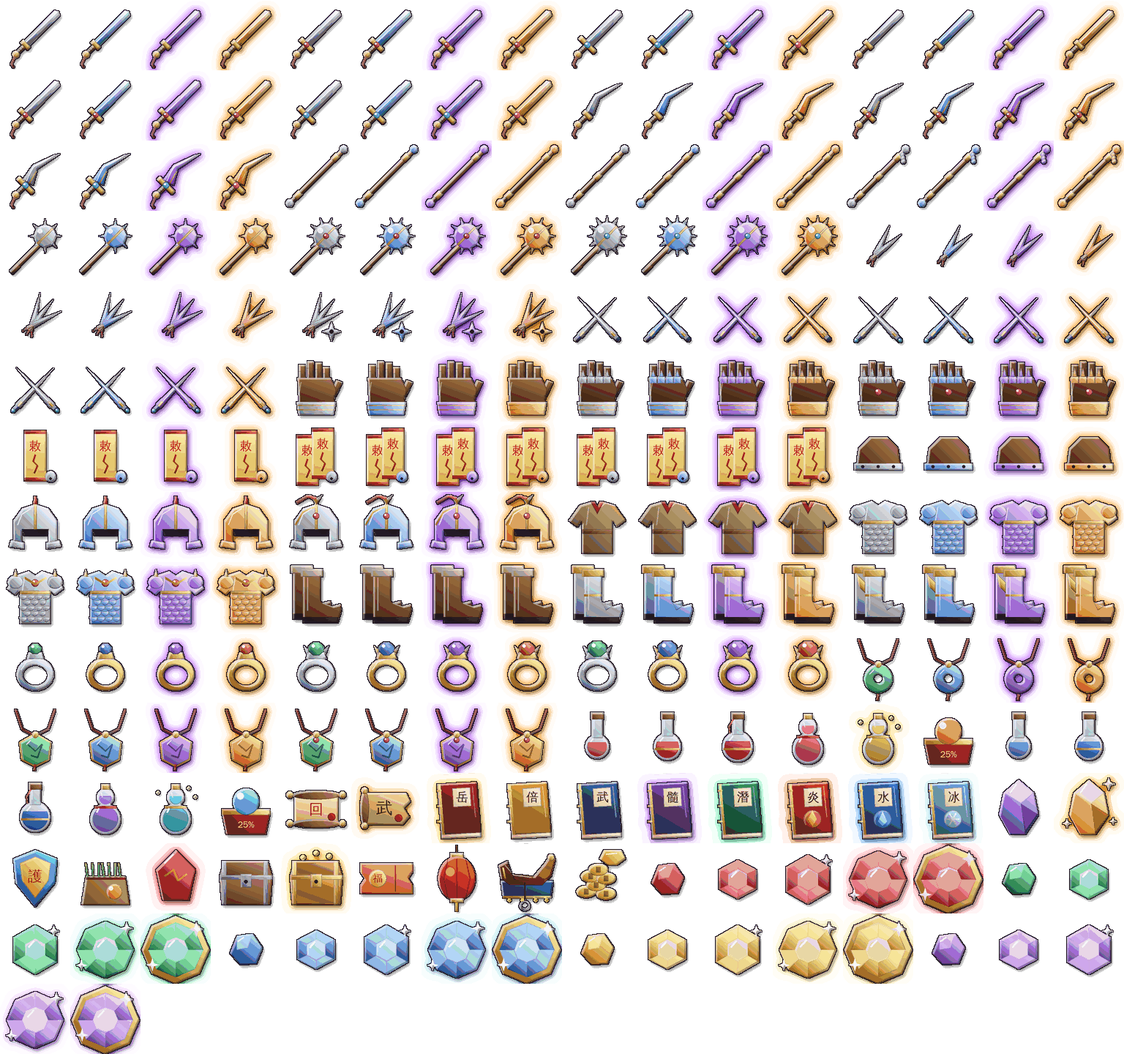
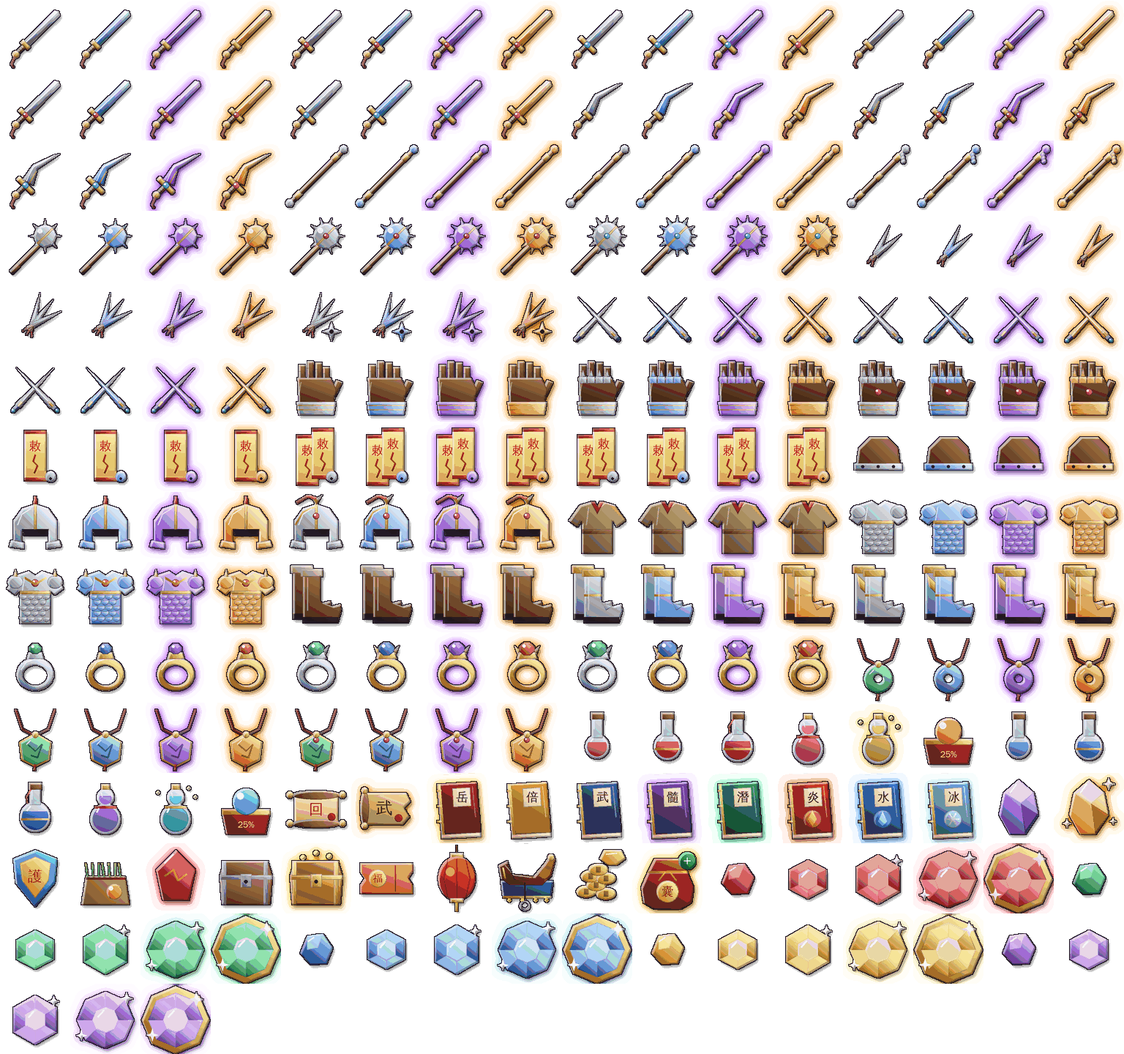
Fix reflect/lifesteal in PvP, cut announcement spam, inventory tools
- applyDamage returns the damage actually dealt. Reflect is computed on
  that and applied with kind 'reflect', which skips the PvP scaling and
  melee guard (it was being scaled twice: 40% reflect returned ~1%);
  clients show it as "Phản N". Lifesteal now uses the dealt damage
  instead of the raw pre-PvP number (it healed ~3x the damage dealt).
- Announcements: Features.brag caps player-achievement messages at 4 per
  minute; pickups/chests/wheel/escort chests only for Legendary
  equipment, enhance from +12, level-ups from 30. System messages only
  show in the "All" chat tab and are capped so they don't evict player
  chat.
- Inventory: per-character size (48 + invExtra up to 96) with a new
  Thẻ Mở Rộng Hành Trang item (+8, KNB shop, new bag icon); sortInv
  merges stacks and orders equipment by rarity/tier/plus; discardMany
  with a multi-select "Vứt nhanh" mode and a confirm warning for
  VIP/Legendary/high-plus items.

Claude-Session: https://claude.ai/code/session_01AqWtbjMjwaw5KPYKGcCy7Z

Changed region(s): [[0.0, 0.7812, 1.0, 1.0]]

diff --git a/server/game/world.js b/server/game/world.js
@@ -231,7 +231,7 @@ class World {
     return {
       name: c.name, cls: c.cls, level: c.level, exp: c.exp, expNext: U.expNext(c.level),
       gold: c.gold, knb: c.knb, hp: c.hp, mp: c.mp, stats: p.stats,
-      inv: c.inv, equip: c.equip, kills: c.kills, pvpKills: c.pvpKills, bossKills: c.bossKills,
+      inv: c.inv, invMax: U.invSize(c), equip: c.equip, kills: c.kills, pvpKills: c.pvpKills, bossKills: c.bossKills,
       tutorial: this.tutorialView(c), gemTut: c.gemTut | 0, guild: g ? { id: g.id, name: g.name, role: g.members[p.userId] } : null,
       expBuffUntil: c.expBuffUntil, buffs: p.buffs.map(b => ({ name: b.name, until: b.until, aura: b.aura, color: b.color })),
       quickHp: c.quickHp, quickMp: c.quickMp, admin: !!p.user.isAdmin, owner: isOwner(p.user) ? 1 : 0, dead: p.dead,
@@ -350,7 +350,7 @@ class World {
       this.toast(p, `⭐ Có ${attrTotalOf(c) - attrUsed(c.attr)} điểm tiềm năng chưa cộng (bảng Nhân vật – phím C)`, 'reward');
       const unlocked = CLASSES[c.cls].skills.filter(s => s.lv === c.level);
       for (const s of unlocked) this.toast(p, `Lĩnh ngộ võ công mới: ${s.name}`, 'reward');
-      if (c.level % 10 === 0) this.features.announce(`⚔ ${c.name} (${CLASSES[c.cls].name}) đã đạt cấp ${c.level}!`);
+      if (c.level % 10 === 0 && c.level >= 30) this.features.brag(`⚔ ${c.name} (${CLASSES[c.cls].name}) đã đạt cấp ${c.level}!`);
       this.progressTutorial(p, 'level');
       this.story.on(p, 'level');
     }
@@ -783,12 +783,12 @@ class World {
     const [em, ek] = elemMult(p.stats.el, isPlayer ? t.stats.del : t.tpl.el);
     dmg *= em;
     dmg = Math.max(1, Math.round(dmg));
-    this.applyDamage(t, dmg, p, crit ? 'crit' : 'hit', ek);
+    const dealt = this.applyDamage(t, dmg, p, crit ? 'crit' : 'hit', ek) || 0;   // sát thương thật (sau giảm PK, né, giảm sát thương)
     if (t.dead || p.dead) return;
     // hiệu ứng trang bị khi đánh trúng
     for (const k of PROC_KEYS) if (fx[k] && Math.random() * 100 < fx[k]) this.applyStatus(t, AFFIX[k].st[0], AFFIX[k].st[1], p);
     if (fx.lifesteal) {
-      const heal = Math.round(dmg * fx.lifesteal / 100 * this.healMul(p));
+      const heal = Math.round(dealt * fx.lifesteal / 100 * this.healMul(p));   // hút máu theo sát thương thật, không theo số gốc trước khi giảm PK
       if (heal > 0 && p.c.hp < p.stats.maxHp) { p.c.hp = Math.min(p.stats.maxHp, p.c.hp + heal); p.dirtyMe = true; if (heal >= 5) this.io.to('map:' + p.mapId).emit('dmg', { id: p.id, v: heal, k: 'heal' }); }
     }
     if (fx.double && Math.random() * 100 < fx.double) {
@@ -799,9 +799,10 @@ class World {
 
   applyDamage(t, dmg, src, kind, ek = 0) {
     if (src && src.c && t && !t.c && !t.cart) src.lastHitMon = Date.now();   // thú cưng biết chủ đang giao chiến
-    if (t.dead) return;
-    if (t.c && src && t.dodgeUntil > Date.now()) { this.io.to('map:' + t.mapId).emit('dmg', { id: t.id, v: 0, k: 'miss' }); return; }   // đang lướt né
-    if (t.c && src && src.c && t !== src) {   // người chơi đánh người chơi: giảm mạnh để trận đấu kéo dài 1-2 phút
+    if (t.dead) return 0;
+    if (t.c && src && t.dodgeUntil > Date.now()) { this.io.to('map:' + t.mapId).emit('dmg', { id: t.id, v: 0, k: 'miss' }); return 0; }   // đang lướt né
+    const reflected = kind === 'reflect';   // sát thương phản đòn đã tính xong ở phía người bị đánh: không giảm thêm lần nữa
+    if (t.c && src && src.c && t !== src && !reflected) {   // người chơi đánh người chơi: giảm mạnh để trận đấu kéo dài 1-2 phút
       const now = Date.now();
       // giao tranh kéo dài quá 60 giây: sát thương tăng dần (+35% mỗi 10 giây) để trận đấu không kéo dài mãi
       for (const e of [t, src]) if (now - (e.lastPvp || 0) > PVP_COMBAT) e.pvpSince = now;
@@ -815,23 +816,24 @@ class World {
       const powK = U.clamp(Math.pow(((src.stats.gs || 0) + 6) / ((t.stats.gs || 0) + 6), 2), 0.4, 3);
       dmg = Math.max(1, Math.round(dmg * PVP_DMG * lvK * powK * (1 + long / 10000 * 0.35)));
     }
-    if (t.c && src && src.c && isRanged(src) && !isRanged(t)) dmg = Math.max(1, Math.round(dmg * MELEE_GUARD));   // cận chiến: hộ thể trước đòn đánh xa
+    if (t.c && src && src.c && !reflected && isRanged(src) && !isRanged(t)) dmg = Math.max(1, Math.round(dmg * MELEE_GUARD));   // cận chiến: hộ thể trước đòn đánh xa
     // phòng thủ từ trang bị (chỉ với đòn đánh trực tiếp, không áp cho độc/bỏng)
     if (t.c && src && (kind === 'hit' || kind === 'crit' || kind === 'hurt')) {
       const fx = t.stats.fx || {};
-      if (fx.dodge && Math.random() * 100 < fx.dodge) { this.io.to('map:' + t.mapId).emit('dmg', { id: t.id, v: 0, k: 'miss' }); return; }
+      if (fx.dodge && Math.random() * 100 < fx.dodge) { this.io.to('map:' + t.mapId).emit('dmg', { id: t.id, v: 0, k: 'miss' }); return 0; }
       if (fx.dmgred) dmg = Math.max(1, Math.round(dmg * (1 - fx.dmgred / 100)));
-      if (fx.reflect && !t._reflecting && !src.dead && src.mapId === t.mapId) {
+      if (fx.reflect && !src.dead && src.mapId === t.mapId) {
+        // phản đòn: tính trên sát thương thật đã nhận (sau giảm PK, giảm sát thương), trả thẳng cho kẻ ra tay
         const back = Math.round(dmg * fx.reflect / 100);
-        if (back > 0) { src._reflecting = true; this.applyDamage(src, back, t, 'hit'); src._reflecting = false; }
+        if (back > 0) this.applyDamage(src, back, t, 'reflect');
       }
     }
-    if (t.dead) return;
+    if (t.dead) return 0;
     const dm = ek ? { id: t.id, v: dmg, k: kind, e: ek } : { id: t.id, v: dmg, k: kind };
     if (t.c && src && src.c && src !== t) dm.s = src.id;   // người chơi đánh người chơi: cho biết ai ra tay (tự động đánh trả)
     this.io.to('map:' + (t.mapId)).emit('dmg', dm);
     if (t.c) { // người chơi
-      if (this.duel.onDamage(t, dmg, src)) return;   // đòn kết liễu trong trận thách đấu: dừng ở 1 máu
+      if (this.duel.onDamage(t, dmg, src)) return dmg;   // đòn kết liễu trong trận thách đấu: dừng ở 1 máu
       t.c.hp -= dmg; t.lastCombat = Date.now(); t.dirtyMe = true;
       if (t.recall) this.cancelRecall(t, 'Bị tấn công');
       if (t.c.hp <= 0) this.killPlayer(t, src);
@@ -849,6 +851,7 @@ class World {
       }
       if (t.hp <= 0) this.killMonster(t, src);
     }
+    return dmg;
   }
 
   killPlayer(t, src) {
@@ -1102,7 +1105,8 @@ class World {
     const it = ITEMS[U.resolveItem(p.c, dr.itemId)];
     this.toast(p, `Nhặt được ${it.name}${dr.qty > 1 ? ' x' + dr.qty : ''}`, 'item:' + it.rarity);
     if (it.rarity === 'epic' || it.rarity === 'legendary') {
-      this.features.announce(`✨ ${p.c.name} nhặt được [${it.name}] (${RARITY[it.rarity].name}) tại ${m.def.name}!`);
+      // chỉ khoe trang bị Truyền Kỳ (đá, nguyên liệu VIP rơi nhiều làm trôi kênh Thế Giới)
+      if (it.type === 'equip' && it.rarity === 'legendary') this.features.brag(`✨ ${p.c.name} nhặt được [${it.name}] (${RARITY[it.rarity].name}) tại ${m.def.name}!`);
       this.db.log('drop', `${p.c.name} nhặt ${it.name}`, { user: p.userId });
     }
     p.dirtyMe = true;
@@ -1175,6 +1179,13 @@ class World {
       this.toast(p, c.pet ? `🐉 Đã triệu hồi ${it.name}` : `Đã thu hồi ${it.name}`, c.pet ? 'reward' : 'info');
       p.dirtyMe = true; return;
     }
+    if (e.invExpand) {
+      if ((c.invExtra | 0) >= U.INV_EXTRA_MAX) return this.toast(p, `Túi đồ đã mở rộng tối đa ${U.INV_SIZE + U.INV_EXTRA_MAX} ô`, 'error');
+      U.removeByUid(c, uid, 1);
+      c.invExtra = Math.min(U.INV_EXTRA_MAX, (c.invExtra | 0) + e.invExpand);
+      this.toast(p, `🎒 Túi đồ mở rộng lên ${U.invSize(c)} ô`, 'reward');
+      p.dirtyMe = true; this.db.markDirty(); return;
+    }
     if (e.expBuff) { c.expBuffUntil = Math.max(Date.now(), c.expBuffUntil || 0) + e.expBuff; this.toast(p, 'Nhân đôi kinh nghiệm 30 phút!', 'reward'); }
     if (e.wheel) { c.wheel.extra = (c.wheel.extra || 0) + 1; this.toast(p, 'Nhận thêm 1 lượt Vòng Quay', 'reward'); }
     if (e.resetSkill) {
@@ -1225,7 +1236,7 @@ class World {
         c.mounts[mt.id] = { lv: 1, exp: 0 };
         if (!c.mount) c.mount = mt.id;
         this.toast(p, `Thuần phục thành công ${mt.name}! Nhấn T hoặc nút 🐎 để cưỡi.`, 'reward');
-        if (mt.rarity === 'epic' || mt.rarity === 'legendary') this.features.announce(`🐉 ${c.name} đã thuần phục thú cưỡi [${mt.name}]!`);
+        if (mt.rarity === 'legendary') this.features.brag(`🐉 ${c.name} đã thuần phục thú cưỡi [${mt.name}]!`);
       }
       this.recalc(p); this.db.markDirty();
       return;
@@ -1281,7 +1292,7 @@ class World {
     const reward = { items: [[id, 1]], gold: U.randInt(100, 500) * (tier + 1) * kind };
     if (Math.random() < 0.3) reward.items.push(['stone', U.randInt(1, 3)]);
     this.giveReward(p, reward, kind === 2 ? 'Rương Thủ Lĩnh' : 'Rương Bí Ẩn');
-    if (rar === 'epic' || rar === 'legendary') this.features.announce(`🎁 ${p.c.name} mở rương nhận được [${ITEMS[id].name}]!`);
+    if (rar === 'legendary') this.features.brag(`🎁 ${p.c.name} mở rương nhận được [${ITEMS[id].name}]!`);
   }
 
   equip(p, uid) {
@@ -1310,6 +1321,33 @@ class World {
   }
   discard(p, uid) {
     if (U.removeByUid(p.c, uid, (p.c.inv.find(x => x.uid === uid) || {}).qty || 1)) p.dirtyMe = true;
+  }
+  // vứt nhiều món một lần (đồ đang mặc không nằm trong túi nên không bị vứt)
+  discardMany(p, uids) {
+    if (!Array.isArray(uids) || p.trade) return;
+    let n = 0;
+    for (const uid of new Set(uids.slice(0, 200))) {
+      const s = typeof uid === 'string' && p.c.inv.find(x => x.uid === uid);
+      if (s && U.removeByUid(p.c, uid, s.qty)) n++;
+    }
+    if (!n) return;
+    this.toast(p, `🗑 Đã vứt ${n} món`, 'info');
+    p.dirtyMe = true; this.db.markDirty();
+  }
+  // sắp xếp túi: trang bị (phẩm chất, bậc, cường hoá cao trước) → vật phẩm dùng → nguyên liệu; gộp các chồng cùng loại
+  sortInv(p) {
+    if (p.trade) return this.toast(p, 'Đang giao dịch, không thể sắp xếp túi', 'error');
+    const c = p.c, RK = { legendary: 0, epic: 1, rare: 2, common: 3 }, TK = { equip: 0, use: 1 };
+    const merged = [], byId = new Map();
+    for (const s of c.inv) {
+      const it = ITEMS[s.id]; if (!it) { merged.push(s); continue; }
+      if (U.isStack(s.id)) { const o = byId.get(s.id); if (o) { o.qty += s.qty; continue; } byId.set(s.id, s); }
+      merged.push(s);
+    }
+    const key = s => { const it = ITEMS[s.id] || {}; return [TK[it.type] ?? 2, RK[it.rarity] ?? 4, -(it.tier || 0), -(s.plus || 0), it.slot || '', s.id]; };
+    merged.sort((a, b) => { const x = key(a), y = key(b); for (let i = 0; i < x.length; i++) if (x[i] !== y[i]) return x[i] < y[i] ? -1 : 1; return 0; });
+    c.inv = merged;
+    p.dirtyMe = true; this.db.markDirty();
   }
 
   // ---------- NPC ----------
@@ -1509,12 +1547,12 @@ class World {
       target.plus = plus + 1;
       result = 'ok';
       this.toast(p, `Cường hóa thành công! ${it.name} +${target.plus}`, 'reward');
-      if (target.plus >= 9) this.features.announce(`🔨 ${c.name} cường hóa thành công [${it.name}] lên +${target.plus}!`);
+      if (target.plus >= 12) this.features.brag(`🔨 ${c.name} cường hóa thành công [${it.name}] lên +${target.plus}!`);
     } else if (risky && !useInsure) {
       target.plus = 1;
       result = 'drop';
       this.toast(p, `Cường hóa thất bại! Không có bảo hiểm, ${it.name} rớt về +1`, 'error');
-      if (plus >= 12) this.features.announce(`💥 ${c.name} cường hóa [${it.name}] +${plus + 1} thất bại, rớt về +1!`);
+      if (plus >= 12) this.features.brag(`💥 ${c.name} cường hóa [${it.name}] +${plus + 1} thất bại, rớt về +1!`);
     } else {
       if (useInsure) U.removeItemById(c, 'insure', 1);
       result = useInsure ? 'insured' : 'fail';

diff --git a/public/js/ui.js b/public/js/ui.js
@@ -534,8 +534,9 @@
   UI.chatMsg = function (m) {
     chatLog.push(m);
     if (chatLog.length > 200) chatLog.shift();
-    if (m.ch === 'sys' && /Boss|xuất hiện|Sự kiện|nhặt được|quay trúng|Đố Vui|Quản Trị|Top/.test(m.text)) UI.announce(m.text);
-    if (chatFilter === 'all' || chatFilter === m.ch || (m.ch === 'sys')) appendChat(m);
+    if (m.ch === 'sys' && chatLog.filter(x => x.ch === 'sys').length > 60) chatLog.splice(chatLog.findIndex(x => x.ch === 'sys'), 1);   // tin hệ thống không đẩy mất tin người chơi
+    if (m.ch === 'sys' && /Boss|xuất hiện|Sự kiện|Đố Vui|Quản Trị|Top/.test(m.text)) UI.announce(m.text);
+    if (chatFilter === 'all' || chatFilter === m.ch) appendChat(m);   // tin hệ thống chỉ hiện ở tab Tất cả, không làm trôi tab Thế giới
     if (m.ch === 'pm' && m.from !== (G.me && G.me.name)) UI.toast(`💌 ${m.from}: ${m.text}`, 'info');
   };
   function appendChat(m) {
@@ -549,7 +550,7 @@
     while (log.children.length > 150) log.firstChild.remove();
     if (atBottom || $('chat').classList.contains('collapsed')) log.scrollTop = log.scrollHeight;
   }
-  function renderChat() { $('chat-log').innerHTML = ''; chatLog.filter(m => chatFilter === 'all' || m.ch === chatFilter || m.ch === 'sys').forEach(appendChat); }
+  function renderChat() { $('chat-log').innerHTML = ''; chatLog.filter(m => chatFilter === 'all' || m.ch === chatFilter).forEach(appendChat); }
   UI.focusChat = function () { $('chat').classList.remove('collapsed'); $('chat-input').focus(); };
 
   UI.onEvents = function (d) {
@@ -640,7 +641,7 @@
       const cant = it.lv > me.level;
       html += `<div class="slot r-${it.rarity} ${cant ? 'cant' : ''} ${panelState.sel === s.uid ? 'sel' : ''} ${opts.mark && opts.mark.has(s.uid) ? 'marked' : ''}" data-uid="${s.uid}">${plusRing(s.plus | 0)}<img src="${iconUrl(s.id)}" class="ic" width="36" height="36">${s.qty > 1 ? `<span class="q">${s.qty}</span>` : ''}${s.plus ? `<span class="plus">+${s.plus}</span>` : ''}</div>`;
     }
-    for (let i = me.inv.length; i < 48 && !opts.filter; i++) html += '<div class="slot" style="opacity:.35"></div>';
+    for (let i = me.inv.length; i < (me.invMax || 48) && !opts.filter; i++) html += '<div class="slot" style="opacity:.35"></div>';
     html += '</div></div>';
     return html;
   }
@@ -651,13 +652,31 @@
     const s = me.inv.find(x => x.uid === sel);
     return s ? Object.assign({ equipped: false }, s) : null;
   }
+  // vứt nhanh: chạm chọn nhiều món rồi vứt một lần
+  const dropMark = new Set();
+  let dropMode = false;
   function renderInventory(body) {
     const me = G.me;
-    let html = `<div class="small muted" style="margin-bottom:6px">💰 ${fmt(me.gold)} lượng · 💎 ${fmt(me.knb)} Nguyên Bảo · Túi ${me.inv.length}/48 · Lực chiến <b style="color:#ffd76a">${fmt(me.stats.power)}</b></div>`;
-    html += invGrid(body);
-    html += itemActions();
+    for (const u of [...dropMark]) if (!me.inv.some(s => s.uid === u)) dropMark.delete(u);
+    let html = `<div class="small muted" style="margin-bottom:6px">💰 ${fmt(me.gold)} lượng · 💎 ${fmt(me.knb)} Nguyên Bảo · Túi ${me.inv.length}/${me.invMax || 48} · Lực chiến <b style="color:#ffd76a">${fmt(me.stats.power)}</b></div>`;
+    html += `<div class="inv-tools"><button class="btn small" id="inv-sort">🧹 Sắp xếp</button><button class="btn small ${dropMode ? 'red' : ''}" id="inv-drop">${dropMode ? '✕ Thoát vứt nhanh' : '🗑 Vứt nhanh'}</button></div>`;
+    if (dropMode) html += `<div class="qs-box"><div class="small muted">Chạm vào các món muốn vứt để đánh dấu ✔. Đồ đang mặc không bị vứt. <a href="#" id="dm-common">Chọn đồ Thường</a> · <a href="#" id="dm-none">Bỏ chọn</a></div>
+      <button class="btn red qs-go" id="dm-go" ${dropMark.size ? '' : 'disabled'}>🗑 Vứt ${dropMark.size} món</button></div>`;
+    html += invGrid(body, dropMode ? { mark: dropMark } : {});
+    if (!dropMode) html += itemActions();
     body.innerHTML = html;
     bindInv(body);
+    $('inv-sort').onclick = () => { emit('sortInv'); panelState.sel = null; G.sfx('click'); };
+    $('inv-drop').onclick = () => { dropMode = !dropMode; dropMark.clear(); panelState.sel = null; UI.refreshPanel(); };
+    if (!dropMode) return;
+    body.querySelectorAll('.inv-grid [data-uid]').forEach(el => el.onclick = () => { const u = el.dataset.uid; dropMark.has(u) ? dropMark.delete(u) : dropMark.add(u); G.sfx('click'); UI.refreshPanel(); });
+    $('dm-common').onclick = e => { e.preventDefault(); me.inv.forEach(s => { const it = G.data.items[s.id]; if (it.type === 'equip' && it.rarity === 'common' && !s.plus) dropMark.add(s.uid); }); UI.refreshPanel(); };
+    $('dm-none').onclick = e => { e.preventDefault(); dropMark.clear(); UI.refreshPanel(); };
+    $('dm-go').onclick = () => {
+      const list = me.inv.filter(s => dropMark.has(s.uid));
+      const rare = list.filter(s => { const it = G.data.items[s.id]; return it.rarity === 'epic' || it.rarity === 'legendary' || (s.plus || 0) >= 5; }).length;
+      G.modal(`Vứt bỏ ${list.length} món? Vật phẩm bị vứt sẽ mất hẳn.${rare ? `\n⚠ Có ${rare} món VIP / Truyền Kỳ / đã cường hóa cao!` : ''}`, [{ t: '🗑 Vứt', cls: 'primary', fn: () => { emit('discardMany', { uids: list.map(s => s.uid) }); dropMark.clear(); } }, { t: 'Hủy' }]);
+    };
   }
   function itemActions(ctx = {}) {
     const s = selectedItem();

diff --git a/public/admin/admin.js b/public/admin/admin.js
@@ -255,7 +255,7 @@
         <div class="small muted" style="margin-top:6px">Bản đồ: ${esc(c.map)} · Lực chiến: ${fmt(c.power)} · Quái: ${fmt(c.kills)} · PK: ${fmt(c.pvpKills)} · Boss: ${fmt(c.bossKills)} · Chết: ${fmt(c.deaths)} · Thời gian chơi: ${Math.round((c.playTime || 0) / 60)} phút</div></div>
       <div class="card"><h3>Tặng vật phẩm</h3><div class="row"><label style="flex:1">Vật phẩm${itemSearchHtml('e-item')}<select id="e-item">${itemOptions(items)}</select></label><label>SL<input id="e-qty" type="number" value="1" style="width:70px"></label><label>Cường hóa<input id="e-plus" type="number" value="0" min="0" max="15" style="width:70px"></label><button class="btn ok" id="e-give">Tặng</button></div></div>
       <div class="card"><h3>Trang bị</h3><div class="items">${Object.entries(c.equip).map(([s, e]) => e ? `<span class="item">${itemName(e.id)}${e.plus ? ' +' + e.plus : ''} <a data-rmslot="${s}" style="cursor:pointer" title="Xóa">✕</a></span>` : '').join('') || '<span class="muted">Không</span>'}</div>
-        <h3 style="margin-top:10px">Túi đồ (${c.inv.length}/48)</h3><div class="items">${c.inv.map(s => `<span class="item">${itemName(s.id)}${s.plus ? ' +' + s.plus : ''}${s.qty > 1 ? ' x' + s.qty : ''} <a data-rm="${s.uid}" style="cursor:pointer" title="Xóa">✕</a></span>`).join('') || '<span class="muted">Trống</span>'}</div></div>
+        <h3 style="margin-top:10px">Túi đồ (${c.inv.length}/${48 + Math.min(48, c.invExtra | 0)})</h3><div class="items">${c.inv.map(s => `<span class="item">${itemName(s.id)}${s.plus ? ' +' + s.plus : ''}${s.qty > 1 ? ' x' + s.qty : ''} <a data-rm="${s.uid}" style="cursor:pointer" title="Xóa">✕</a></span>`).join('') || '<span class="muted">Trống</span>'}</div></div>
       <div class="card"><h3>Dịch chuyển</h3><div class="row"><select id="e-map">${maps.map(m => `<option value="${m.id}">${esc(m.name)}</option>`).join('')}</select><button class="btn" id="e-tp">Dịch chuyển</button></div></div>` : ''}
       <div class="card"><h3>Quản lý tài khoản</h3><div class="row">
         ${u.username ? `<label>Mật khẩu mới cho "${esc(u.username)}"<input id="e-newpass" type="text" placeholder="tối thiểu 6 ký tự"></label><button class="btn" id="e-resetpass">Đặt lại mật khẩu</button>` : ''}

diff --git a/server/game/util.js b/server/game/util.js
@@ -10,7 +10,8 @@ const { gemBonus } = require('../data/gems');
 const plusMult = plus => 1 + Math.min(plus, 10) * 0.12 + Math.max(0, plus - 10) * 0.25;
 
 const MAX_LEVEL = 99;
-const INV_SIZE = 48;
+const INV_SIZE = 48, INV_EXTRA_MAX = 48;   // túi gốc 48 ô, Thẻ Mở Rộng Hành Trang thêm tối đa 48 ô
+const invSize = c => INV_SIZE + Math.max(0, Math.min(INV_EXTRA_MAX, c.invExtra | 0));
 
 // kinh nghiệm lên cấp = KN một con quái cùng cấp × số quái cần hạ. Số quái tăng mạnh sau cấp 30 vì cấp cao
 // quái đông, chiêu diện rộng hạ rất nhanh (đo mô phỏng: ~200 con/giờ ở cấp 15-45, 1.500-3.700 con/giờ từ cấp 60).
@@ -89,15 +90,15 @@ function addItem(c, id, qty = 1, plus = 0, extra = null) {
   if (isStack(id)) {
     const s = c.inv.find(x => x.id === id);
     if (s) { s.qty += qty; return true; }
-    if (c.inv.length >= INV_SIZE) return false;
+    if (c.inv.length >= invSize(c)) return false;
     c.inv.push({ uid: newUid(), id, qty });
     return true;
   }
-  if (c.inv.length + qty > INV_SIZE) return false;
+  if (c.inv.length + qty > invSize(c)) return false;
   for (let i = 0; i < qty; i++) c.inv.push(Object.assign({ uid: newUid(), id, qty: 1, plus }, extra || rollAffixes(it)));
   return true;
 }
-function freeSlots(c) { return INV_SIZE - c.inv.length; }
+function freeSlots(c) { return invSize(c) - c.inv.length; }
 function countItem(c, id) { return c.inv.filter(x => x.id === id).reduce((s, x) => s + x.qty, 0); }
 function removeItemById(c, id, qty) {
   if (countItem(c, id) < qty) return false;
@@ -223,6 +224,6 @@ function calcStats(c, buffs = [], guildLevel = 0, riding = false) {
 }
 
 module.exports = {
-  MAX_LEVEL, INV_SIZE, expNext, levelGapK, vnDate, vnDay, vnMinuteOfDay, rand, randInt, dist, clamp, newUid,
+  MAX_LEVEL, INV_SIZE, INV_EXTRA_MAX, invSize, expNext, levelGapK, vnDate, vnDay, vnMinuteOfDay, rand, randInt, dist, clamp, newUid,
   plusMult, newCharacter, addItem, resolveItem, migrateItems, freeSlots, countItem, removeItemById, removeByUid, calcStats, isStack
 };

diff --git a/server/data/changelog.js b/server/data/changelog.js
@@ -4,6 +4,16 @@ const CHANGELOG = [
   {
     date: '21/10/2026',
     items: [
+      'Sửa hiệu ứng trang bị khi PK: Phản Chấn trước đây gần như không phản được gì (bị giảm sát thương PK hai lần) – nay phản đúng % sát thương nhận vào và hiện chữ "Phản …" trên đầu kẻ ra đòn; Hút Máu trước đây hồi gấp nhiều lần sát thương gây ra – nay hồi đúng theo sát thương thật.',
+      'Lưu ý: Bạo Liệt (+% sát thương bạo kích) chỉ tăng sát thương của đòn bạo kích, tỉ lệ ra bạo kích vẫn theo chỉ số Chí mạng.',
+      'Bớt thông báo làm trôi kênh chat: chỉ khoe trang bị Truyền Kỳ (không còn báo nhặt đá, nguyên liệu, đồ VIP), cường hoá từ +12, tối đa 4 tin khoe mỗi phút. Tin hệ thống chỉ hiện ở tab Tất cả – tab Thế giới chỉ còn người chơi nói chuyện.',
+      'Túi đồ: nút 🧹 Sắp xếp (gộp chồng, trang bị tốt lên đầu) và 🗑 Vứt nhanh (chạm chọn nhiều món, vứt một lần).',
+      'Vật phẩm mới: Thẻ Mở Rộng Hành Trang (+8 ô túi, tối đa 96 ô) – bán ở Kỳ Trân Các 50 💎.'
+    ]
+  },
+  {
+    date: '21/10/2026',
+    items: [
       'Tự động nay hỗ trợ PK (tiện cho phái cận chiến): chọn một người chơi làm mục tiêu rồi bật Tự động – nhân vật tự đuổi theo và ra chiêu; khi tỷ võ luôn tự đánh đối thủ (kể cả trên Lôi Đài); mặc định tự đánh trả người chơi vừa tấn công mình. Tuỳ chọn thêm trong bảng Tự động: tự tấn công người chơi thù địch ở gần. Không bao giờ đánh người không thể tấn công (cùng bang, bản đồ an toàn, chế độ PK không cho phép).'
     ]
   },

diff --git a/server/data/items.js b/server/data/items.js
@@ -113,6 +113,7 @@ const CONSUMABLES = [
     effect: { vmCombine: 1 }, price: 20000 * (i + 1), icon: 'vm_scroll' })),
   { id: 'vm_dithu', name: 'Võ Mục Di Thư', rarity: 'legendary', desc: 'Binh thư tuyệt thế của Nhạc Vũ Mục. Nghiền ngẫm (Sử dụng) để vĩnh viễn tăng 3% công, thủ và sinh lực. Tối đa 5 lần.', effect: { vmStudy: 1 }, price: 500000, lv: 50, icon: 'vm_book' },
   { id: 'wheel_ticket', name: 'Vé Vòng Quay', desc: 'Thêm 1 lượt quay Vòng Quay May Mắn', effect: { wheel: 1 }, price: 3000, icon: 'ticket' },
+  { id: 'inv_card', name: 'Thẻ Mở Rộng Hành Trang', desc: 'Sử dụng để mở thêm 8 ô túi đồ (tối đa 96 ô).', effect: { invExpand: 8 }, price: 0, icon: 'bag', rarity: 'epic' },
   { id: 'rename_card', name: 'Thẻ Đổi Tên', desc: 'Sử dụng để đổi tên nhân vật (3-14 ký tự, không trùng tên người khác). Không thể giao dịch. Lần mua đầu tiên miễn phí.', effect: { rename: 1 }, price: 50000, icon: 'ticket', rarity: 'epic', noTrade: true },
   { id: 'pet_hong_long', name: 'Hồng Long Ấu Thú', desc: 'Thú cưng rồng lửa (bản thử nghiệm). Sử dụng để triệu hồi / thu hồi. Rồng bay theo chủ, khi chủ giao chiến sẽ lao tới phun lửa vào mục tiêu (sát thương theo 35% công của chủ, gây bỏng).', effect: { pet: 'hong_long' }, price: 0, icon: 'pet:hong_long', rarity: 'legendary', stack: false, noSell: true },
   { id: 'tay_tuy_kinh', name: 'Tẩy Tủy Kinh', desc: 'Sử dụng để tẩy điểm võ học: mọi võ công đã học trở về tầng 1, hoàn lại toàn bộ điểm võ học để cộng lại. Cũng dùng để đổi hệ Nội công / Ngoại công từ cấp 20 (bảng Võ Công).', effect: { resetSkill: 1 }, price: 60000, icon: 'book_wash', rarity: 'epic' },

diff --git a/server/game/features.js b/server/game/features.js
@@ -86,6 +86,14 @@ class Features {
   get cfg() { return this.db.data.config; }
 
   // ---------------- Thông báo ----------------
+  // thông báo khoe thành tích (nhặt / mở rương / cường hoá…): tối đa 4 tin mỗi phút toàn máy chủ để kênh chat không bị trôi
+  brag(text) {
+    const now = Date.now();
+    this._brag = (this._brag || []).filter(t => now - t < 60000);
+    if (this._brag.length >= 4) return;
+    this._brag.push(now);
+    this.announce(text);
+  }
   announce(text, room) {
     const msg = { ch: 'sys', from: 'Hệ Thống', text, t: Date.now() };
     (room ? this.io.to(room) : this.io).emit('chat', msg);
@@ -268,7 +276,7 @@ class Features {
       this.w.giveReward(killer, reward, 'Bảo Rương');
       const e = this.events.treasure;
       if (e) e.chests--;
-      if (reward.items && ITEMS[reward.items[0][0]].rarity === 'epic') this.announce(`💰 ${killer.c.name} mở Bảo Rương nhận được [${ITEMS[reward.items[0][0]].name}]!`);
+      if (reward.items && ITEMS[reward.items[0][0]].rarity === 'legendary') this.brag(`💰 ${killer.c.name} mở Bảo Rương nhận được [${ITEMS[reward.items[0][0]].name}]!`);
     }
   }
 
@@ -347,7 +355,7 @@ class Features {
         const slots = ['weapon', 'helmet', 'armor', 'boots', 'ring', 'amulet'];
         const id = equipId(slots[U.randInt(0, 5)], Math.min(6, Math.floor(p.c.level / 10)), 'epic');
         this.w.giveReward(p, { items: [[id, 1]] }, 'Vòng Quay');
-        this.announce(`🎡 ${p.c.name} quay trúng [${ITEMS[id].name}] tại Vòng Quay May Mắn!`);
+        this.brag(`🎡 ${p.c.name} quay trúng [${ITEMS[id].name}] tại Vòng Quay May Mắn!`);
       } else this.w.giveReward(p, prize.r, 'Vòng Quay');
     }, 4200);
     this.questProgress(p, 'wheel', 1);

diff --git a/server/game/gems.js b/server/game/gems.js
@@ -45,7 +45,7 @@ class Gems {
     gems[idx] = gem; t.gems = gems;
     this.w.recalc(p);
     this.w.toast(p, `💎 Đã khảm ${ITEMS[gem].name} vào ${it.name}`, 'reward');
-    if (g.lv >= 5) this.w.features.announce(`💎 ${c.name} khảm thành công ${ITEMS[gem].name} vào [${it.name}]!`);
+    if (g.lv >= 5) this.w.features.brag(`💎 ${c.name} khảm thành công ${ITEMS[gem].name} vào [${it.name}]!`);
     this.w.fx(p.mapId, { t: 'levelup', id: p.id, x: p.x, y: p.y, small: true });
     if ((c.gemTut | 0) === 1) this.tutStep(p, 2);
     p.socket.emit('gemResult', { op: 'socket', ok: true });
@@ -91,7 +91,7 @@ class Gems {
     if (!ok && !fail) { if (U.countItem(c, gem) < need) this.w.toast(p, `Cần ${need} viên ${ITEMS[gem].name} để luyện`, 'error'); return; }
     const nx = ITEMS[G.gemId(g.type, g.lv + 1)];
     this.w.toast(p, ok ? `🔥 Luyện thành công ${ok} viên ${nx.name}${fail ? ` · thất bại ${fail} lần (vỡ ${fail} viên)` : ''}` : `💢 Luyện thất bại ${fail} lần, vỡ ${fail} viên ${ITEMS[gem].name}`, ok ? 'reward' : 'error');
-    if (ok && g.lv + 1 >= 5) this.w.features.announce(`🔥 ${c.name} luyện thành công ${nx.name}!`);
+    if (ok && g.lv + 1 >= 5) this.w.features.brag(`🔥 ${c.name} luyện thành công ${nx.name}!`);
     this.w.fx(p.mapId, { t: ok ? 'levelup' : 'death', id: p.id, x: p.x, y: p.y, small: true });
     if (ok && (c.gemTut | 0) === 2) this.tutStep(p, 3);
     p.socket.emit('gemResult', { op: 'upgrade', ok: ok > 0, n: ok, fail });

diff --git a/server/data/npcs.js b/server/data/npcs.js
@@ -32,7 +32,7 @@ const NPCS = {
     talk: 'Bảo vật hiếm có, chỉ nhận Nguyên Bảo.',
     knbShop: [
       ...['weapon', 'armor', 'helmet', 'boots', 'ring', 'amulet'].flatMap(s => [1, 2, 3, 4].map(t => ({ id: `${s}_${t}_rare`, knb: 20 + t * 25 }))),
-      { id: 'rename_card', knb: 20 }, { id: 'tay_tuy_kinh', knb: 30 }, { id: 'tay_tiem_nang', knb: 20 }, { id: 'lucky_chest', knb: 30 }, { id: 'exp_x2', knb: 10 }, { id: 'wheel_ticket', knb: 15 }, { id: 'stone', knb: 3 },
+      { id: 'inv_card', knb: 50 }, { id: 'rename_card', knb: 20 }, { id: 'tay_tuy_kinh', knb: 30 }, { id: 'tay_tiem_nang', knb: 20 }, { id: 'lucky_chest', knb: 30 }, { id: 'exp_x2', knb: 10 }, { id: 'wheel_ticket', knb: 15 }, { id: 'stone', knb: 3 },
       { id: 'stone2', knb: 40 }, { id: 'insure', knb: 60 }, { id: 'mount_food', knb: 2 }, { id: 'mount_stone', knb: 30 },
       { id: 'book_fire', knb: 800 }, { id: 'book_water', knb: 800 }, { id: 'book_ice', knb: 800 },
       { id: 'mount_kim_nguu', knb: 1200 }, { id: 'mount_bach_ho', knb: 1500 }, { id: 'mount_kim_quy', knb: 2000 }, { id: 'mount_hoa_ky_lan', knb: 5000 }, { id: 'mount_phuong_hoang', knb: 6500 }, { id: 'mount_thanh_long', knb: 8000 }, { id: 'mount_hac_long', knb: 8000 }

diff --git a/server/game/escort.js b/server/game/escort.js
@@ -229,7 +229,7 @@ class Escort {
     if (tier === 'vang') { const x = Math.random(); rare = x < 0.04 ? 'legendary' : x < 0.3 ? 'epic' : 'rare'; if (Math.random() < 0.2) reward.knb = 10; }
     if (rare) reward.items.push([equipId(slot, lvTier, rare), 1]);
     this.w.giveReward(p, reward, ITEMS['tieu_chest_' + tier].name);
-    if (rare === 'epic' || rare === 'legendary') this.w.features.announce(`🎁 ${p.c.name} mở ${ITEMS['tieu_chest_' + tier].name} nhận được [${ITEMS[equipId(slot, lvTier, rare)].name}]!`);
+    if (rare === 'legendary') this.w.features.brag(`🎁 ${p.c.name} mở ${ITEMS['tieu_chest_' + tier].name} nhận được [${ITEMS[equipId(slot, lvTier, rare)].name}]!`);
   }
 
   // ---------- đổi bản đồ: xe đi theo khi chủ qua cổng cùng xe ----------

diff --git a/public/js/game.js b/public/js/game.js
@@ -615,6 +615,7 @@
     if (!e) return;
     const x = e.x, y = e.y - 70, near = Math.hypot(e.x - G.self.x, e.y - G.self.y);
     if (d.k === 'miss') { Overhead.add(x, y, 'Né!', 'status', '#bfe8ff'); return; }
+    if (d.k === 'reflect') { Overhead.add(x, y, 'Phản ' + d.v, 'status', '#e39bff'); e.hitAt = performance.now(); return; }   // sát thương phản đòn
     if (d.e === 1) Overhead.add(x, y - 16, 'Khắc!', 'status', '#ffd84a');
     else if (d.e === -1 && (d.id === G.you || near < 300)) Overhead.add(x, y - 16, 'Bị khắc', 'status', '#a0a0a0');
     if (d.k === 'heal' || d.k === 'mana') Overhead.add(x, y, d.v, d.k);

diff --git a/server/app.js b/server/app.js
@@ -352,6 +352,8 @@ io.on('connection', socket => {
   on('equip', inGame(d => world.equip(player, d && d.uid)));
   on('unequip', inGame(d => world.unequip(player, d && d.slot)));
   on('discard', inGame(d => world.discard(player, d && d.uid)));
+  on('discardMany', inGame(d => world.discardMany(player, d && d.uids)));
+  on('sortInv', inGame(() => world.sortInv(player)));
   on('npc', inGame(d => world.talkNpc(player, d && d.id)));
   on('buy', inGame(d => world.buy(player, d || {})));
   on('bank', inGame(d => world.bankOp(player, d)));
